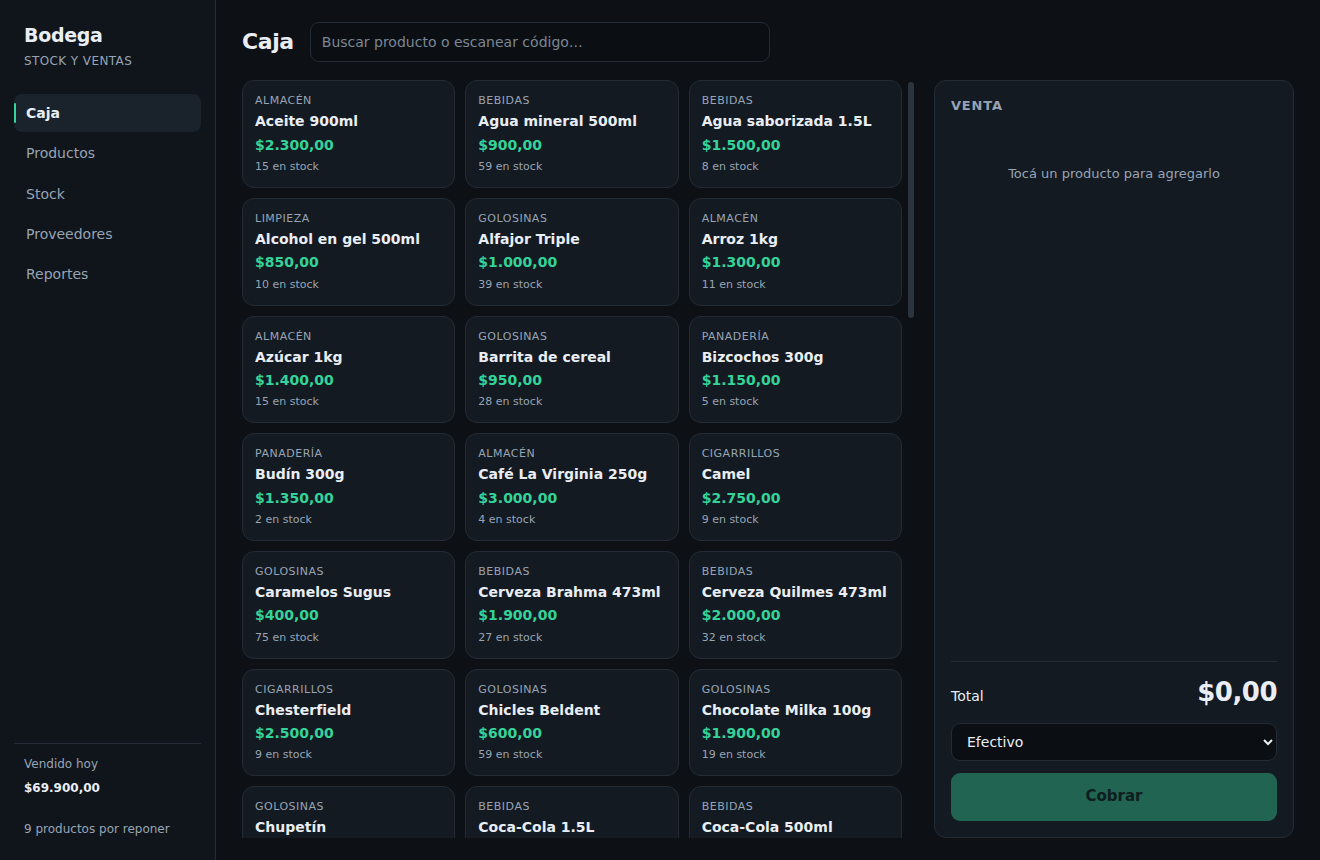
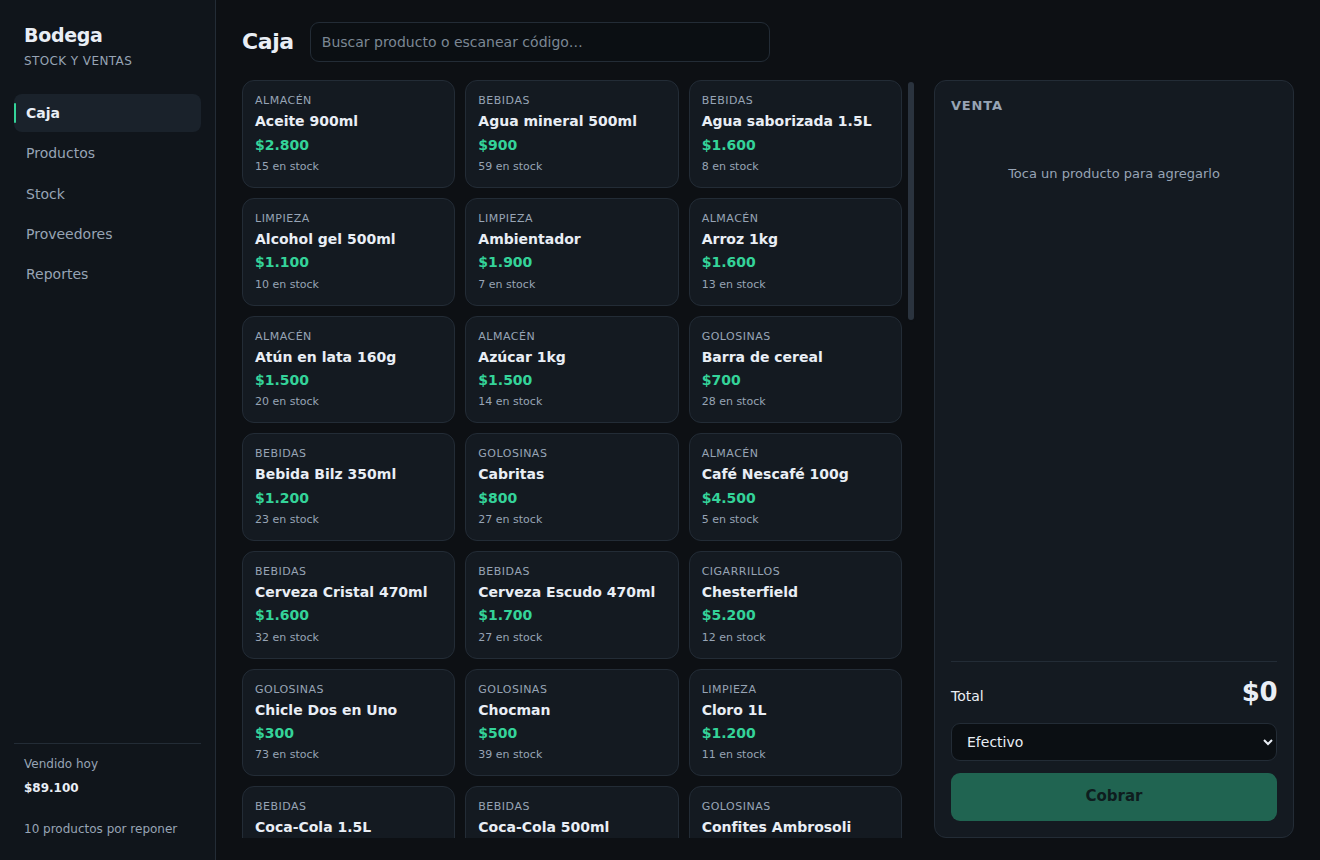
Adaptar a Chile: precios CLP sin decimales, catálogo de almacén chileno y español neutro

diff --git a/src/seed.js b/src/seed.js
@@ -1,67 +1,67 @@
 'use strict';
-// Datos de ejemplo: 60 productos de kiosco + 7 días de ventas, para que la app arranque llena.
+// Datos de ejemplo: 60 productos de almacén chileno + 7 días de ventas, para que la app arranque llena.
 // [nombre, categoría, costo, precio, stock, stock mínimo] — precios en centavos.
 const CATALOGO = [
-  ['Coca-Cola 500ml', 'Bebidas', 120000, 180000, 48, 12],
-  ['Coca-Cola 1.5L', 'Bebidas', 200000, 290000, 24, 6],
-  ['Pepsi 500ml', 'Bebidas', 110000, 170000, 30, 12],
-  ['Sprite 500ml', 'Bebidas', 110000, 170000, 30, 12],
+  ['Coca-Cola 500ml', 'Bebidas', 100000, 150000, 48, 12],
+  ['Coca-Cola 1.5L', 'Bebidas', 180000, 260000, 24, 6],
+  ['Pepsi 500ml', 'Bebidas', 95000, 140000, 30, 12],
+  ['Sprite 500ml', 'Bebidas', 95000, 140000, 30, 12],
   ['Agua mineral 500ml', 'Bebidas', 50000, 90000, 60, 18],
-  ['Agua saborizada 1.5L', 'Bebidas', 90000, 150000, 18, 6],
-  ['Cerveza Quilmes 473ml', 'Bebidas', 130000, 200000, 36, 12],
-  ['Cerveza Brahma 473ml', 'Bebidas', 120000, 190000, 24, 12],
-  ['Jugo Cepita 200ml', 'Bebidas', 60000, 100000, 40, 12],
-  ['Energizante Speed 250ml', 'Bebidas', 150000, 230000, 24, 6],
-  ['Alfajor Triple', 'Golosinas', 60000, 100000, 50, 15],
-  ['Chocolate Milka 100g', 'Golosinas', 120000, 190000, 24, 8],
-  ['Chicles Beldent', 'Golosinas', 30000, 60000, 60, 20],
-  ['Caramelos Sugus', 'Golosinas', 20000, 40000, 80, 20],
-  ['Mogul', 'Golosinas', 40000, 70000, 45, 15],
-  ['Chupetín', 'Golosinas', 15000, 30000, 100, 25],
-  ['Turrón', 'Golosinas', 25000, 50000, 40, 15],
-  ['Oblea', 'Golosinas', 30000, 60000, 40, 15],
-  ['Gomitas', 'Golosinas', 45000, 80000, 35, 12],
-  ['Barrita de cereal', 'Golosinas', 55000, 95000, 30, 10],
-  ['Marlboro Box', 'Cigarrillos', 200000, 280000, 20, 10],
-  ['Philip Morris', 'Cigarrillos', 190000, 270000, 20, 10],
-  ['Camel', 'Cigarrillos', 195000, 275000, 15, 8],
-  ['Lucky Strike', 'Cigarrillos', 185000, 265000, 15, 8],
-  ['Red Point', 'Cigarrillos', 150000, 220000, 25, 10],
-  ['Chesterfield', 'Cigarrillos', 170000, 250000, 15, 8],
-  ['Yerba Taragüí 1kg', 'Almacén', 250000, 380000, 12, 4],
-  ['Azúcar 1kg', 'Almacén', 90000, 140000, 20, 6],
-  ['Arroz 1kg', 'Almacén', 85000, 130000, 18, 6],
-  ['Fideos 500g', 'Almacén', 70000, 110000, 24, 8],
-  ['Aceite 900ml', 'Almacén', 150000, 230000, 15, 5],
-  ['Harina 1kg', 'Almacén', 60000, 95000, 15, 5],
-  ['Café La Virginia 250g', 'Almacén', 200000, 300000, 10, 4],
-  ['Té 25 saquitos', 'Almacén', 45000, 75000, 14, 5],
-  ['Galletitas surtidas', 'Almacén', 60000, 100000, 22, 8],
-  ['Sal gruesa 500g', 'Almacén', 25000, 45000, 12, 4],
-  ['Papel higiénico 4u', 'Limpieza', 150000, 230000, 16, 6],
-  ['Detergente 500ml', 'Limpieza', 80000, 130000, 14, 5],
-  ['Jabón en polvo 800g', 'Limpieza', 180000, 270000, 10, 4],
-  ['Lavandina 1L', 'Limpieza', 50000, 85000, 16, 6],
-  ['Rollo de cocina 2u', 'Limpieza', 90000, 150000, 12, 5],
-  ['Jabón de tocador', 'Limpieza', 40000, 70000, 20, 6],
-  ['Desodorante de ambiente', 'Limpieza', 70000, 120000, 10, 4],
-  ['Alcohol en gel 500ml', 'Limpieza', 50000, 85000, 12, 4],
-  ['Leche entera 1L', 'Lácteos', 90000, 140000, 24, 8],
-  ['Yogur 200g', 'Lácteos', 55000, 90000, 18, 6],
-  ['Queso cremoso 100g', 'Lácteos', 120000, 190000, 10, 4],
-  ['Manteca 100g', 'Lácteos', 90000, 140000, 10, 4],
-  ['Dulce de leche 250g', 'Lácteos', 100000, 160000, 8, 3],
-  ['Crema 200ml', 'Lácteos', 70000, 110000, 8, 3],
-  ['Leche chocolatada 200ml', 'Lácteos', 50000, 85000, 24, 8],
-  ['Queso rallado 40g', 'Lácteos', 60000, 100000, 10, 4],
-  ['Pan lactal 500g', 'Panadería', 90000, 145000, 12, 4],
-  ['Pan de mesa 400g', 'Panadería', 80000, 130000, 10, 4],
-  ['Bizcochos 300g', 'Panadería', 70000, 115000, 8, 3],
-  ['Facturas 6u', 'Panadería', 60000, 100000, 6, 3],
-  ['Medialunas 6u', 'Panadería', 65000, 105000, 6, 3],
-  ['Galletas de agua', 'Panadería', 50000, 85000, 14, 5],
-  ['Budín 300g', 'Panadería', 85000, 135000, 6, 3],
-  ['Tostadas 200g', 'Panadería', 55000, 90000, 10, 4],
+  ['Agua saborizada 1.5L', 'Bebidas', 100000, 160000, 18, 6],
+  ['Cerveza Cristal 470ml', 'Bebidas', 110000, 160000, 36, 12],
+  ['Cerveza Escudo 470ml', 'Bebidas', 115000, 170000, 24, 12],
+  ['Jugo Andina 200ml', 'Bebidas', 60000, 90000, 40, 12],
+  ['Bebida Bilz 350ml', 'Bebidas', 80000, 120000, 30, 10],
+  ['Chocman', 'Golosinas', 35000, 50000, 50, 15],
+  ['Costa', 'Golosinas', 40000, 60000, 40, 15],
+  ['Super 8', 'Golosinas', 25000, 40000, 60, 20],
+  ['Confites Ambrosoli', 'Golosinas', 30000, 50000, 45, 15],
+  ['Papas fritas Marco Polo 180g', 'Golosinas', 120000, 180000, 24, 8],
+  ['Ramitas', 'Golosinas', 45000, 70000, 40, 15],
+  ['Cabritas', 'Golosinas', 50000, 80000, 30, 10],
+  ['Chicle Dos en Uno', 'Golosinas', 15000, 30000, 80, 25],
+  ['Galletón', 'Golosinas', 30000, 50000, 40, 15],
+  ['Barra de cereal', 'Golosinas', 45000, 70000, 30, 10],
+  ['Marlboro Box', 'Cigarrillos', 450000, 580000, 20, 10],
+  ['Lucky Strike', 'Cigarrillos', 420000, 550000, 20, 10],
+  ['Pall Mall', 'Cigarrillos', 380000, 500000, 20, 10],
+  ['Kent', 'Cigarrillos', 430000, 560000, 15, 8],
+  ['Chesterfield', 'Cigarrillos', 390000, 520000, 15, 8],
+  ['Hilton', 'Cigarrillos', 370000, 490000, 15, 8],
+  ['Té Supremo 20u', 'Almacén', 90000, 150000, 14, 5],
+  ['Café Nescafé 100g', 'Almacén', 320000, 450000, 10, 4],
+  ['Arroz 1kg', 'Almacén', 110000, 160000, 20, 6],
+  ['Fideos Carozzi 400g', 'Almacén', 85000, 120000, 24, 8],
+  ['Aceite 900ml', 'Almacén', 210000, 280000, 15, 5],
+  ['Azúcar 1kg', 'Almacén', 100000, 150000, 18, 6],
+  ['Harina 1kg', 'Almacén', 85000, 120000, 15, 5],
+  ['Sal 1kg', 'Almacén', 40000, 60000, 12, 4],
+  ['Atún en lata 160g', 'Almacén', 110000, 150000, 15, 5],
+  ['Salsa de tomate 200g', 'Almacén', 60000, 90000, 15, 5],
+  ['Papel higiénico 4u', 'Limpieza', 180000, 250000, 16, 6],
+  ['Detergente 500ml', 'Limpieza', 130000, 180000, 14, 5],
+  ['Cloro 1L', 'Limpieza', 80000, 120000, 16, 6],
+  ['Lavaloza 500ml', 'Limpieza', 100000, 150000, 14, 5],
+  ['Rollo de cocina 2u', 'Limpieza', 160000, 220000, 12, 5],
+  ['Jabón de tocador', 'Limpieza', 60000, 90000, 20, 6],
+  ['Ambientador', 'Limpieza', 130000, 190000, 10, 4],
+  ['Alcohol gel 500ml', 'Limpieza', 70000, 110000, 12, 4],
+  ['Leche Soprole 1L', 'Lácteos', 95000, 130000, 24, 8],
+  ['Yogur 200g', 'Lácteos', 55000, 80000, 18, 6],
+  ['Queso gauda 100g', 'Lácteos', 130000, 180000, 10, 4],
+  ['Mantequilla 100g', 'Lácteos', 110000, 150000, 10, 4],
+  ['Manjar 250g', 'Lácteos', 120000, 170000, 8, 3],
+  ['Crema 200ml', 'Lácteos', 85000, 120000, 8, 3],
+  ['Leche chocolatada 200ml', 'Lácteos', 50000, 70000, 24, 8],
+  ['Queso rallado 40g', 'Lácteos', 70000, 100000, 10, 4],
+  ['Pan de molde 500g', 'Panadería', 160000, 220000, 12, 4],
+  ['Marraqueta 1kg', 'Panadería', 130000, 180000, 10, 4],
+  ['Hallulla 1kg', 'Panadería', 120000, 170000, 10, 4],
+  ['Galletas de agua', 'Panadería', 60000, 90000, 14, 5],
+  ['Queque 300g', 'Panadería', 110000, 160000, 6, 3],
+  ['Tostadas 200g', 'Panadería', 90000, 130000, 10, 4],
+  ['Pan amasado 6u', 'Panadería', 100000, 150000, 6, 3],
+  ['Dobladitas 6u', 'Panadería', 90000, 140000, 6, 3],
 ];
 
 const MEDIOS = ['Efectivo', 'Débito', 'Crédito', 'Transferencia', 'QR'];
@@ -81,7 +81,7 @@ function sembrar(store) {
   CATALOGO.forEach(([nombre, categoria, costo, precio, stock, stockMinimo], i) => {
     store.producto({ nombre, categoria, codigo: `779000${String(i).padStart(7, '0')}`, costo, precio, stock, stockMinimo });
   });
-  ['Distribuidora Norte', 'Mayorista del Sur', 'Kiosco Central'].forEach((nombre, i) => store.proveedor({ nombre, telefono: `11 4000-000${i + 1}` }));
+  ['Distribuidora Los Andes', 'Mayorista Central', 'Comercial San Bernardo'].forEach((nombre, i) => store.proveedor({ nombre, telefono: `+56 9 4000 000${i + 1}` }));
 
   const azar = prng(20261114);
   const productos = store.estado().productos;

diff --git a/src/renderer/app.js b/src/renderer/app.js
@@ -2,7 +2,8 @@
 const bd = window.api;
 const $ = (s, r = document) => r.querySelector(s);
 const $$ = (s, r = document) => [...r.querySelectorAll(s)];
-const plata = (c) => '$' + (c / 100).toLocaleString('es-AR', { minimumFractionDigits: 2, maximumFractionDigits: 2 });
+// CLP no usa decimales: se guarda en centavos y se muestra redondeado.
+const plata = (c) => '$' + Math.round(c / 100).toLocaleString('es-CL');
 const esc = (s) => String(s ?? '').replace(/[&<>"']/g, (c) => ({ '&': '&amp;', '<': '&lt;', '>': '&gt;', '"': '&quot;', "'": '&#39;' }[c]));
 const isoLocal = (f) => `${f.getFullYear()}-${String(f.getMonth() + 1).padStart(2, '0')}-${String(f.getDate()).padStart(2, '0')}`;
 
@@ -74,7 +75,7 @@ function visibles() {
   const f = filtro.trim().toLowerCase();
   return st.productos
     .filter((p) => !f || p.nombre.toLowerCase().includes(f) || (p.codigo || '').includes(f))
-    .sort((a, b) => a.nombre.localeCompare(b.nombre, 'es'));
+    .sort((a, b) => a.nombre.localeCompare(b.nombre, 'es-CL'));
 }
 
 function pintarCaja() {
@@ -105,7 +106,7 @@ function pintarCarrito() {
       </span>
     </div>`;
   }).join('');
-  $('#carrito').innerHTML = filas || '<p class="vacio">Tocá un producto para agregarlo</p>';
+  $('#carrito').innerHTML = filas || '<p class="vacio">Toca un producto para agregarlo</p>';
   const total = carrito.reduce((s, l) => {
     const p = st.productos.find((x) => x.id === l.productoId);
     return s + (p ? p.precio * l.cantidad : 0);
@@ -141,7 +142,7 @@ function pintarProductos() {
   const f = filtroProd.trim().toLowerCase();
   const lista = st.productos
     .filter((p) => !f || p.nombre.toLowerCase().includes(f) || (p.codigo || '').includes(f) || p.categoria.toLowerCase().includes(f))
-    .sort((a, b) => a.nombre.localeCompare(b.nombre, 'es'));
+    .sort((a, b) => a.nombre.localeCompare(b.nombre, 'es-CL'));
   $('#tabla-productos').innerHTML = `<table>
     <thead><tr><th>Producto</th><th>Código</th><th>Categoría</th><th class="num">Costo</th><th class="num">Precio</th><th class="num">Stock</th><th></th></tr></thead>
     <tbody>${lista.map((p) => `<tr>
@@ -187,7 +188,7 @@ function formProducto(p = {}) {
 
 /* ---------------- stock ---------------- */
 function pintarStock() {
-  const lista = [...st.productos].sort((a, b) => a.stock - b.stock || a.nombre.localeCompare(b.nombre, 'es'));
+  const lista = [...st.productos].sort((a, b) => a.stock - b.stock || a.nombre.localeCompare(b.nombre, 'es-CL'));
   $('#tabla-stock').innerHTML = `<table>
     <thead><tr><th>Producto</th><th>Categoría</th><th class="num">Stock</th><th class="num">Mínimo</th><th>Estado</th><th></th></tr></thead>
     <tbody>${lista.map((p) => {
@@ -207,7 +208,7 @@ function pintarStock() {
 
 function formAjuste(p) {
   abrirModal(`Ajustar stock · ${p.nombre}`, `
-    <p class="pista">Stock actual: ${p.stock}. Usá números negativos para descontar (rotura, vencimiento, robo).</p>
+    <p class="pista">Stock actual: ${p.stock}. Usa números negativos para descontar (rotura, vencimiento, robo).</p>
     <div class="doble">
       <div class="campo"><label>Cantidad</label><input name="cantidad" type="number" required value="1"></div>
       <div class="campo"><label>Motivo</label><input name="motivo" maxlength="80" value="Ajuste manual"></div>
@@ -231,7 +232,7 @@ function pintarProveedores() {
     <thead><tr><th>Últimas compras</th><th class="num">Total</th></tr></thead>
     <tbody>${ultimas.map((c) => {
       const prov = st.proveedores.find((x) => x.id === c.proveedorId);
-      return `<tr><td>${esc(prov?.nombre || '—')}<br><small class="pista">${new Date(c.fecha).toLocaleDateString('es-AR')} · ${c.items.length} ítem(s)</small></td><td class="num">${plata(c.total)}</td></tr>`;
+      return `<tr><td>${esc(prov?.nombre || '—')}<br><small class="pista">${new Date(c.fecha).toLocaleDateString('es-CL')} · ${c.items.length} producto(s)</small></td><td class="num">${plata(c.total)}</td></tr>`;
     }).join('') || '<tr><td colspan="2" class="vacio">Sin compras registradas</td></tr>'}</tbody></table>`;
 }
 
@@ -251,7 +252,7 @@ function formCompra(proveedorId) {
       <div class="campo boton"><button type="button" class="secundario" id="c-add">Agregar ítem</button></div>
     </div>
     <div id="c-lineas" class="campos"></div>`, (fd) => {
-    if (!lineas.length) { avisar('Agregá al menos un ítem', true); return false; }
+    if (!lineas.length) { avisar('Agrega al menos un ítem', true); return false; }
     return mutar(bd.compra(Number(fd.get('proveedor')), lineas.map((l) => ({ productoId: l.productoId, cantidad: l.cantidad, costo: l.costo }))));
   });
 
@@ -296,7 +297,7 @@ async function pintarReportes() {
   const diasRango = [];
   for (let i = dias; i >= 0; i--) {
     const f = new Date(hoy.getTime() - i * 864e5);
-    diasRango.push({ clave: isoLocal(f), etiqueta: f.toLocaleDateString('es-AR', { day: '2-digit', month: '2-digit' }) });
+    diasRango.push({ clave: isoLocal(f), etiqueta: f.toLocaleDateString('es-CL', { day: '2-digit', month: '2-digit' }) });
   }
   const maximo = Math.max(1, ...diasRango.map((x) => d.porDia[x.clave] || 0));
 

diff --git a/README.md b/README.md
@@ -1,6 +1,6 @@
 # Bodega
 
-Gestor de stock y ventas para kioscos y almacenes. App de escritorio que funciona sin internet y sin servidor: los datos viven en la máquina del comercio.
+Gestor de stock y ventas para almacenes y kioscos chilenos. App de escritorio que funciona sin internet y sin servidor: los datos viven en la máquina del comercio. Precios en CLP, sin decimales.
 
 ![Caja](docs/caja.png)
 
@@ -40,7 +40,7 @@ Un JSON en el directorio de usuario de la app (`~/.config/Bodega/bodega.json` en
 - Escritura atómica (archivo temporal + rename): nunca queda un archivo a medias.
 - Si el archivo está corrupto, se aparta como `bodega.json.corrupto-<fecha>` y la app arranca limpia en lugar de pisarlo.
 - Respaldo automático diario, se conservan los últimos 7.
-- Los precios se guardan en centavos enteros: las cuentas de plata no arrastran errores de redondeo.
+- Los precios se guardan en centavos enteros y se muestran en pesos chilenos sin decimales: las cuentas no arrastran errores de redondeo.
 - Las ventas guardan nombre, precio y costo del momento: cambiar un precio no reescribe la historia.
 
 ## Stack
@@ -49,7 +49,7 @@ Electron + HTML/CSS/JS sin bundler. Sin dependencias nativas, sin base de datos,
 
 ## Qué no hace (a propósito)
 
-Facturación electrónica (AFIP), multi-usuario, sincronización en la nube, lector de código de barras físico, impresora fiscal. Empaquetado `.exe`: pendiente.
+Boleta electrónica del SII, multi-usuario, sincronización en la nube, lector de código de barras físico, impresora de boletas. Empaquetado `.exe`: pendiente.
 
 ## Licencia
 
